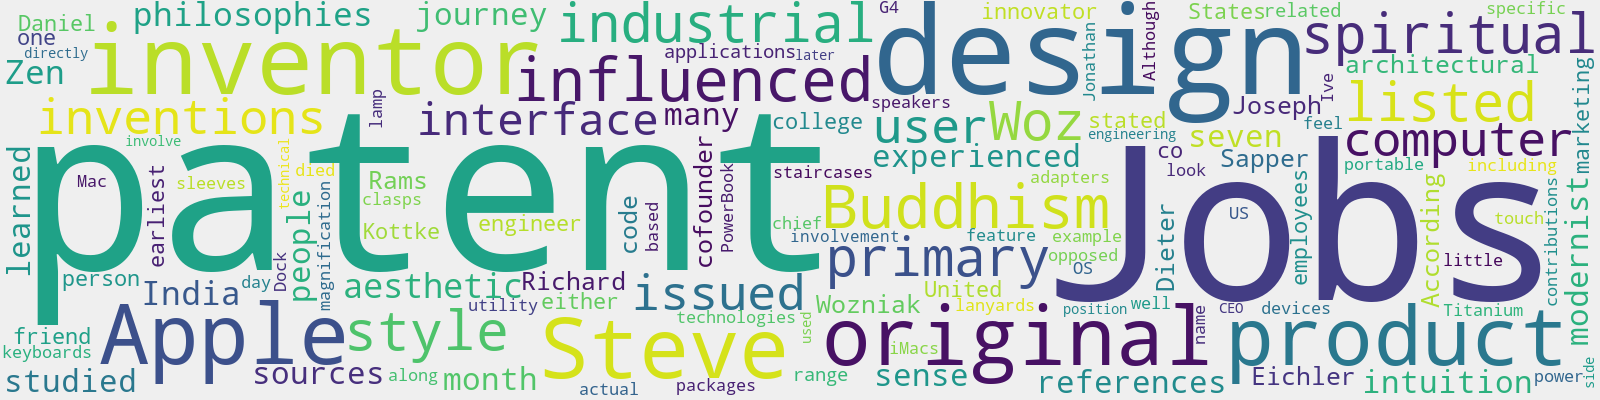
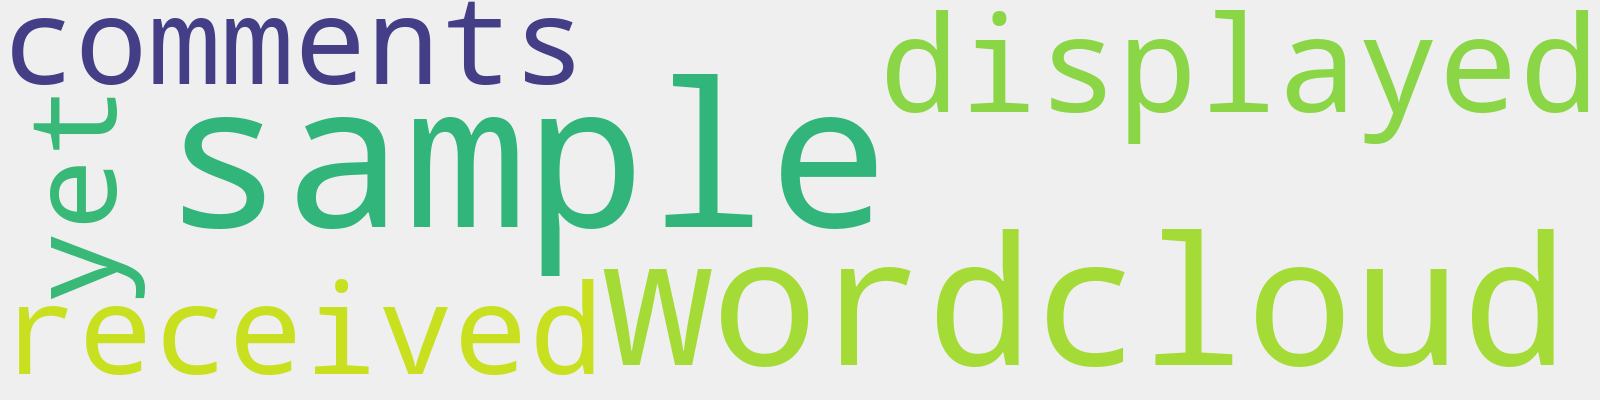
fixed info page, live feedback feed, sorted leaderboard algorithm

diff --git a/templates/info.html b/templates/info.html
@@ -3,7 +3,7 @@
 {% block body %}
 <form>
 	<div style="display: -webkit-flex; -webkit-flex-flow: row wrap; display: flex; flex-flow: row wrap; height: auto; width: 100%; justify-content: space-around; align-content: center; margin-bottom: 20px">
-		<div style="display: -webkit-flex; -webkit-flex-flow: column; display: flex; flex-flow: column; border-radius: 10px; height: 300px; width: 225px; box-shadow: -0px 0px 50px rgba(200, 200, 200, 1); background: linear-gradient(to right bottom, #FFF4E0 5%, #E8E8EE); background: -webkit-linear-gradient(to right bottom, #FFF4E0 5%, #E8E8EE); background: -moz-linear-gradient(to right bottom, #FFF4E0 5%, #E8E8EE); justify-content: center; align-items: center; margin-bottom: 15px" class="attribute-card">
+		<div style="display: -webkit-flex; -webkit-flex-flow: column; display: flex; flex-flow: column; border-radius: 10px; height: 280px; width: 190px; box-shadow: -0px 0px 50px rgba(200, 200, 200, 1); background: linear-gradient(to right bottom, #FFF4E0 5%, #E8E8EE); background: -webkit-linear-gradient(to right bottom, #FFF4E0 5%, #E8E8EE); background: -moz-linear-gradient(to right bottom, #FFF4E0 5%, #E8E8EE); justify-content: center; align-items: center; margin-bottom: 15px" class="attribute-card">
 			<img src="/static/images/work_ethic.png" style="height: 120px; width: 120px; padding: 15px">
 			<span style="font-family: helvetica"> 
 				<h1 style="color: #393E46; text-align: center; font-size: 20px;">
@@ -20,11 +20,10 @@
 				    <input type="radio" id="rating3a" required value="3" name="group-a" /><label class="half" for="rating3a" title="1 1/2 stars"></label>
 				    <input type="radio" id="rating2a" required value="2" name="group-a" /><label for="rating2a" title="1 star"></label>
 				    <input type="radio" id="rating1a" required value="1" name="group-a" /><label class="half" for="rating1a" title="1/2 star"></label>
-				    <input type="radio" id="rating0" required value="0" name="group-a" /><label for="rating0" title="No star"></label>
 				</fieldset>
 			</span>
 		</div>
-		<div style="display: -webkit-flex; -webkit-flex-flow: column; display: flex; flex-flow: column; border-radius: 10px; height: 300px; width: 225px; box-shadow: -0px 0px 50px rgba(200, 200, 200, 1); background: linear-gradient(to right bottom, #FFF4E0 5%, #CACFE2); background: -webkit-linear-gradient(to right bottom, #FFF4E0 5%, #CACFE2); background: -moz-linear-gradient(to right bottom, #FFF4E0 5%, #CACFE2); justify-content: center; align-items: center; margin-bottom: 15px" class="attribute-card">
+		<div style="display: -webkit-flex; -webkit-flex-flow: column; display: flex; flex-flow: column; border-radius: 10px; height: 280px; width: 190px; box-shadow: -0px 0px 50px rgba(200, 200, 200, 1); background: linear-gradient(to right bottom, #FFF4E0 5%, #CACFE2); background: -webkit-linear-gradient(to right bottom, #FFF4E0 5%, #CACFE2); background: -moz-linear-gradient(to right bottom, #FFF4E0 5%, #CACFE2); justify-content: center; align-items: center; margin-bottom: 15px" class="attribute-card">
 			<img src="/static/images/team_effectiveness.png" style="height: 120px; width: 120px; padding: 15px">
 			<span style="font-family: helvetica; text-align: center"> 
 				<h1 style="color: #393E46; text-align: center; font-size: 20px;">
@@ -41,11 +40,10 @@
 				    <input type="radio" id="rating3b" required value="3" name="group-b" /><label class="half" for="rating3b" title="1 1/2 stars" name="group-b"></label>
 				    <input type="radio" id="rating2b" required value="2" name="group-b" /><label for="rating2b" title="1 star" name="group-b"></label>
 				    <input type="radio" id="rating1b" required value="1" name="group-b" /><label class="half" for="rating1b" title="1/2 star" name="group-b"></label>
-				    <input type="radio" id="rating0b" required value="0" name="group-b" /><label for="rating0b" title="No star"></label>
 				</fieldset>
 			</span>
 		</div>
-		<div style="display: -webkit-flex; -webkit-flex-flow: column; display: flex; flex-flow: column; border-radius: 10px; height: 300px; width: 225px; box-shadow: -0px 0px 50px rgba(200, 200, 200, 1); background: linear-gradient(to right bottom, #FFF4E0 5%, #D7D4E5); background: -webkit-linear-gradient(to right bottom, #FFF4E0 5%, #D7D4E5); background: -moz-linear-gradient(to right bottom, #FFF4E0 5%, #D7D4E5); justify-content: center; align-items: center; margin-bottom: 15px" class="attribute-card">
+		<div style="display: -webkit-flex; -webkit-flex-flow: column; display: flex; flex-flow: column; border-radius: 10px; height: 280px; width: 190px; box-shadow: -0px 0px 50px rgba(200, 200, 200, 1); background: linear-gradient(to right bottom, #FFF4E0 5%, #D7D4E5); background: -webkit-linear-gradient(to right bottom, #FFF4E0 5%, #D7D4E5); background: -moz-linear-gradient(to right bottom, #FFF4E0 5%, #D7D4E5); justify-content: center; align-items: center; margin-bottom: 15px" class="attribute-card">
 			<img src="/static/images/thinking_skills.png" style="height: 120px; width: 120px; padding: 15px">
 			<span style="font-family: helvetica; text-align: center"> 
 				<h1 style="color: #393E46; text-align: center; font-size: 20px">
@@ -62,11 +60,10 @@
 				    <input type="radio" id="rating3c" required value="3" name="group-c"/><label class="half" for="rating3c" title="1 1/2 stars"></label>
 				    <input type="radio" id="rating2c" required value="2" name="group-c"/><label for="rating2c" title="1 star"></label>
 				    <input type="radio" id="rating1c" required value="1" name="group-c"/><label class="half" for="rating1c" title="1/2 star"></label>
-				    <input type="radio" id="rating0c" required value="0" name="group-c"/><label for="rating0c" title="No star"></label>
 				</fieldset>
 			</span>
 		</div>
-		<div style="display: -webkit-flex; -webkit-flex-flow: column; display: flex; flex-flow: column; border-radius: 10px; height: 300px; width: 225px; box-shadow: -0px 0px 50px rgba(200, 200, 200, 1); background: linear-gradient(to right bottom, #FFF4E0 5%, #8E9FBB); background: -webkit-linear-gradient(to right bottom, #FFF4E0 5%, #8E9FBB); background: -moz-linear-gradient(to right bottom, #FFF4E0 5%, #8E9FBB); justify-content: center; align-items: center; margin-bottom: 15px" class="attribute-card">
+		<div style="display: -webkit-flex; -webkit-flex-flow: column; display: flex; flex-flow: column; border-radius: 10px; height: 280px; width: 190px; box-shadow: -0px 0px 50px rgba(200, 200, 200, 1); background: linear-gradient(to right bottom, #FFF4E0 5%, #8E9FBB); background: -webkit-linear-gradient(to right bottom, #FFF4E0 5%, #8E9FBB); background: -moz-linear-gradient(to right bottom, #FFF4E0 5%, #8E9FBB); justify-content: center; align-items: center; margin-bottom: 15px" class="attribute-card">
 			<img src="/static/images/competence.png" style="height: 120px; width: 120px; padding: 15px">
 			<span style="font-family: helvetica; text-align: center"> 
 				<h1 style="color: #393E46; text-align: center; font-size: 20px">
@@ -83,11 +80,10 @@
 				    <input type="radio" id="rating3d" required value="3" name="group-d"/><label class="half" for="rating3d" title="1 1/2 stars"></label>
 				    <input type="radio" id="rating2d" required value="2" name="group-d"/><label for="rating2d" title="1 star"></label>
 				    <input type="radio" id="rating1d" required value="1" name="group-d"/><label class="half" for="rating1d" title="1/2 star"></label>
-				    <input type="radio" id="rating0d" required value="0" name="group-d"/><label for="rating0d" title="No star"></label>
 				</fieldset>
 			</span>
 		</div>
-		<div style="display: -webkit-flex; -webkit-flex-flow: column; display: flex; flex-flow: column; border-radius: 10px; height: 300px; width: 225px; box-shadow: -0px 0px 50px rgba(200, 200, 200, 1); background: linear-gradient(to right bottom, #FFF4E0 5%, #475069); background: -webkit-linear-gradient(to right bottom, #FFF4E0 5%, #475069); background: -moz-linear-gradient(to right bottom, #FFF4E0 5%, #475069); justify-content: center; align-items: center; margin-bottom: 15px" class="attribute-card">
+		<div style="display: -webkit-flex; -webkit-flex-flow: column; display: flex; flex-flow: column; border-radius: 10px; height: 280px; width: 190px; box-shadow: -0px 0px 50px rgba(200, 200, 200, 1); background: linear-gradient(to right bottom, #FFF4E0 5%, #475069); background: -webkit-linear-gradient(to right bottom, #FFF4E0 5%, #475069); background: -moz-linear-gradient(to right bottom, #FFF4E0 5%, #475069); justify-content: center; align-items: center; margin-bottom: 15px" class="attribute-card">
 			<img src="/static/images/presence.png" style="height: 120px; width: 120px; padding: 15px">
 			<span style="font-family: helvetica; text-align: center"> 
 				<h1 style="color: #393E46; text-align: center; font-size: 20px">
@@ -104,7 +100,6 @@
 				    <input type="radio" id="rating3e" required value="3" name="group-e"/><label class="half" for="rating3e" title="1 1/2 stars"></label>
 				    <input type="radio" id="rating2e" required value="2" name="group-e"/><label for="rating2e" title="1 star"></label>
 				    <input type="radio" id="rating1e" required value="1" name="group-e"/><label class="half" for="rating1e" title="1/2 star"></label>
-				    <input type="radio" id="rating0e" required value="0" name="group-e"/><label for="rating0e" title="No star"></label>
 				</fieldset>
 			</span>
 		</div>
@@ -151,8 +146,8 @@
 			opacity: 1;
 		}
 
-		.attribute-card:hover {
+		/*.attribute-card:hover {
 			border: 2px solid #F8B500;
-		}
+		}*/
 	</style>
 {% endblock %}

diff --git a/templates/profile.html b/templates/profile.html
@@ -72,25 +72,13 @@
 		<div style="margin: 20px; margin-bottom: 0px; font-size: 25px; font-family: 'Helvetica Light'; letter-spacing: 2px; color: #777">
 			Feedback
 		</div> -->
-		{% if (current_user.name == profile or current_user.admin) %}
+			{% if (current_user.name == profile or current_user.admin) %}
 			<div style="margin: 20px; margin-bottom: 0px; font-size: 25px; font-family: 'Helvetica Light'; letter-spacing: 2px; color: #777">
 				Feedback
 			</div>
-			<div style="display: -webkit-flex; -webkit-flex-flow: row; display: flex; flex-flow: row; width: calc(100% - 40px); height: 100%; justify-content: flex-start; margin: 10px; margin-bottom: 20px; overflow-x: auto; position:relative; overflow-y: hidden">
-				{% for i in range(5) %}
-					<div class="zoom">
-							<cite style="font-family: Helvetica-Light; font-size: 15px; color: #555">
-							&quot;Nancy, I noticed at the meeting this morning that you got defensive when your data was challenged during your presentation. When Amy asked a question about your calculations, you were short with her and told her she needs to trust that you know how to do your job. When you responded to her that way, she shut down for the rest of the meeting and seemed angry. You really need her support, and I’m wondering if you’ll have it now. What are your thoughts? &quot;
-							</cite>	
-					</div>
-					<div class="zoom">
-							<cite style="font-family: Helvetica-Light; font-size: 15px; color: #555">
-							&quot;Nancy, I noticed at the meeting this morning that you got defensive when your data was challenged during your presentation.&quot;
-							</cite>	
-					</div>
-				{% endfor %}
-			</div>
-		{% endif %}
+				<div id="feedback-feed" style="display: -webkit-flex; -webkit-flex-flow: row; display: flex; flex-flow: row; width: calc(100% - 40px); height: 100%; justify-content: flex-start; margin: 10px; margin-bottom: 20px; overflow-x: auto; position:relative; overflow-y: hidden">
+				</div>
+			{% endif %}
 	</div>
 	<style>
 		.zoom {
@@ -118,6 +106,19 @@
                 $("#wordcloud").html(wcloud)
             }).fail(function() {
                 $("#wordcloud").text("Error: Failed to generate wordcloud");
+            });
+
+            $.post('/getcomments', {
+            	profile: '{{ profile }}'
+            }).done(function(response) {
+            	var feedback = response['feedback']
+            	$('#feedback-feed').html('')
+            	for (let i = 0; i < feedback.length; i++) {
+            		let template = '<div class="zoom">' + '<h4>Project ' + feedback[i]['projectNum'] + '</h4>' + '<cite style="font-family: Helvetica-Light; font-size: 15px; color: #555">' + '&quot;' + feedback[i]['commentText'] + '&quot;' + '</div>'
+            		$('#feedback-feed').append(template)
+            	}
+            }).fail(function() {
+            	$('#feedback-feed').text('Error: Failed to retrieve feedback from database')
             });
 		});
 	</script>

diff --git a/app.py b/app.py
@@ -233,7 +233,6 @@ def submitcomment():
 	try:
 		# Creates mongodb comment object according to schema
 		comment = comments_schema.copy()
-		print('>>>>', request.form)
 		comment['givenBy'] = str(request.form['givenBy'])
 		comment['givenTo'] = str(request.form['givenTo'])
 		comment['projectNum'] = int(request.form['projectNum'])
@@ -243,7 +242,6 @@ def submitcomment():
 		comment['sentimentScore'] = get_sentiment_score(comment['commentText'])
 
 		comment_is_valid = validate_comment(comment)
-		print('>>>> VALID', comment_is_valid)
 
 		if comment['givenTo'] not in students:
 			response = 'Invalid Target'
@@ -348,18 +346,12 @@ def validate_rating(rating):
 
 def validate_comment(comment):
 	if comment['givenBy'] == comment['givenTo']:
-		print('>>sameperson')
 		return False
 	if comment['commentText'] and isinstance(comment['commentText'], str):
-		print('>>CommentFilled')
 		if comment['givenBy'] and isinstance(comment['givenBy'], str):
-			print('>>thereisagivenby')
 			if comment['givenTo'] and isinstance(comment['givenTo'], str):
-				print('>>thereisagivento')
 				if (comment['projectNum'] or comment['projectNum'] == 0) and isinstance(comment['projectNum'], int):
-					print('>>thereisaprojNum')
 					if isinstance(comment['sentimentScore'], float):
-						print('>>sentScore')
 						return True
 	return False
 
@@ -378,9 +370,17 @@ def access_db():
 			return jsonify({'avatar': url_for("static", filename="images/placeholder.png")})
 	return dict(get_avatar=get_avatar)
 
+@app.route('/getcomments', methods=['POST'])
+def get_comments():
+	feedbacks = get_comments_from_mongo({'givenTo': request.form['profile']})
+	for feedback in feedbacks:
+		feedback.pop('_id', None)
+
+	sorted_feedback = sorted(feedbacks, key=lambda x: x.get('submittedAt'), reverse=True)
+	return jsonify({'feedback': sorted_feedback})
+
 @app.route('/getranking', methods=['GET'])
 def get_ranking():
-	# return jsonify({'ranked_list': ['DANIEL', 'SEBASTIAN', 'YEE']})
 	comments = get_comments_from_mongo()
 	ratings = get_ratings_from_mongo()
 
@@ -389,8 +389,7 @@ def get_ranking():
 		ranking_dict[s] = compute_rating_sentiment(s, comments, ratings)
 	
 	ranked_list = sorted(ranking_dict.keys(), key=lambda x: (ranking_dict[x]['average_rating'], ranking_dict[x]['average_sentiment']), reverse=True)
-	# import random
-	# random.shuffle(ranked_list)
+
 	return jsonify({'ranked_list': ranked_list})
 
 def get_comments_from_mongo(query_filter={}):
@@ -417,7 +416,7 @@ def get_teams_from_mongo(name):
 
 def compute_rating_sentiment(student, comments, ratings):
 	all_sentiments = [float(comment['sentimentScore']) for comment in comments if comment['givenTo'] == student]
-	all_ratings = [float(rate[1]) for rating in ratings if rating['givenTo'] == 'hi' for category in rating['ratings'].keys() for rate in rating['ratings'][category].items()]
+	all_ratings = [float(rate[1]) for rating in ratings if rating['givenTo'] == student for category in rating['ratings'].keys() for rate in rating['ratings'][category].items()]
 	average_sentiment = sum(all_sentiments) / len(all_sentiments) if all_sentiments else 0
 	average_rating = sum(all_ratings) / len(all_ratings) if all_ratings else 0
 	return {'average_rating': average_rating, 'average_sentiment': average_sentiment}

diff --git a/util/data.py b/util/data.py
@@ -85,7 +85,7 @@ def scatter_3D():
 
 def wordcloud(profile, word_string):
 	# Create a list of word (https://en.wikipedia.org/wiki/Data_visualization)
-	text1=("Jobs's design aesthetic was influenced by philosophies of Zen and Buddhism. In India, he experienced Buddhism while on his seven-month spiritual journey, and his sense of intuition was influenced by the spiritual people with whom he studied. He also learned from many references and sources, such as modernist architectural style of Joseph Eichler, and the industrial designs of Richard Sapper and Dieter Rams. According to Apple cofounder Steve Wozniak Steve didn't ever code. He wasn't an engineer and he didn't do any original design Daniel Kottke, one of Apple's earliest employees and a college friend of Jobs's, stated that Between Woz and Jobs, Woz was the innovator, the inventor. Steve Jobs was the marketing person. He is listed as either primary inventor or co-inventor in 346 United States patents or patent applications related to a range of technologies from actual computer and portable devices to user interfaces including touch-based, speakers, keyboards, power adapters, staircases, clasps, sleeves, lanyards and packages. Jobs's contributions to most of his patents were to the look and feel of the product. His industrial design chief Jonathan Ive had his name along with him for 200 of the patents. Most of these are design patents specific product designs; for example, Jobs listed as primary inventor in patents for both original and lamp-style iMacs, as well as PowerBook G4 Titanium as opposed to utility patents inventions. He has 43 issued US patents on inventions. The patent on the Mac OS X Dock user interface with magnification feature was issued the day before he died. Although Jobs had little involvement in the engineering and technical side of the original Apple computers, Jobs later used his CEO position to directly involve himself with product design.")
+	text1="This is a sample wordcloud that is being displayed because you have not received any comments yet."
 	text=word_string if word_string else text1
 	# Load the image
 	# cloud_mask = np.array(Image.open(base_path + '/static/images/cloud.png'))
